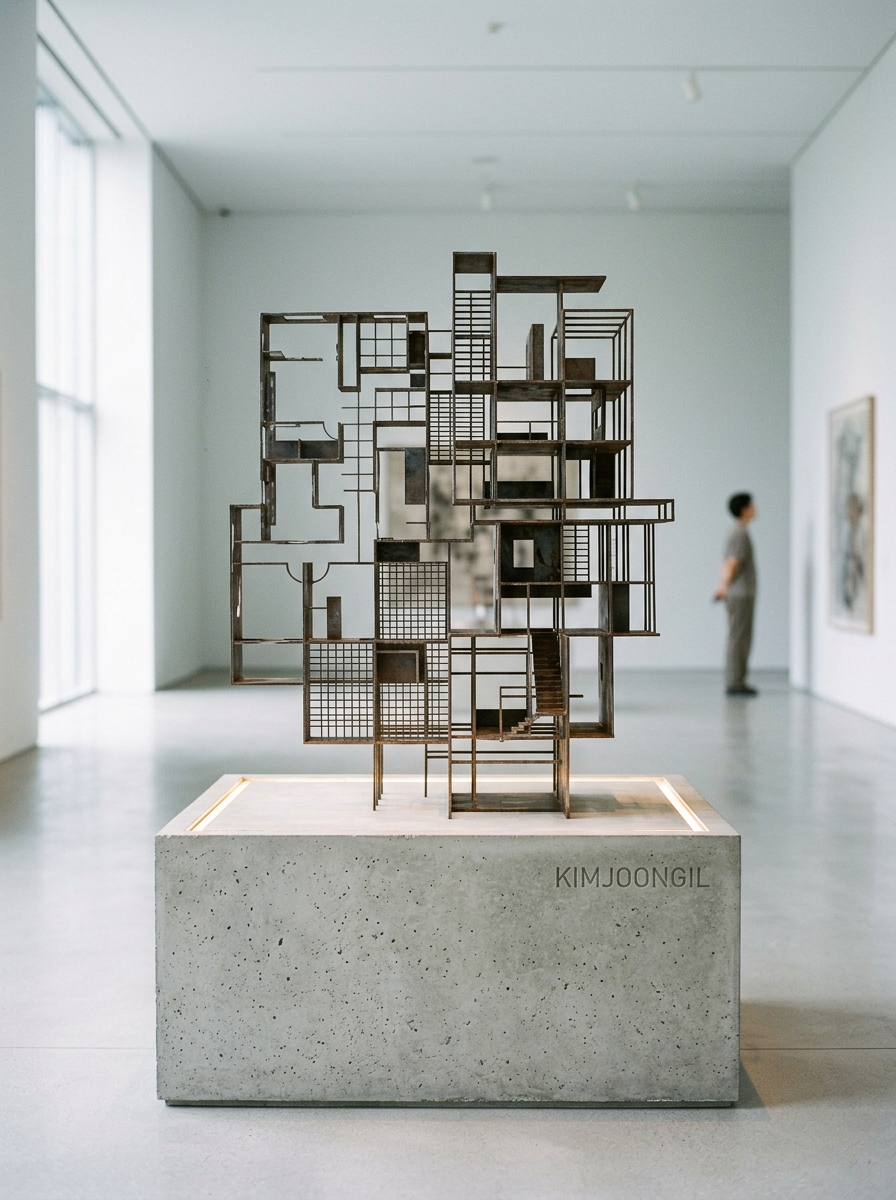
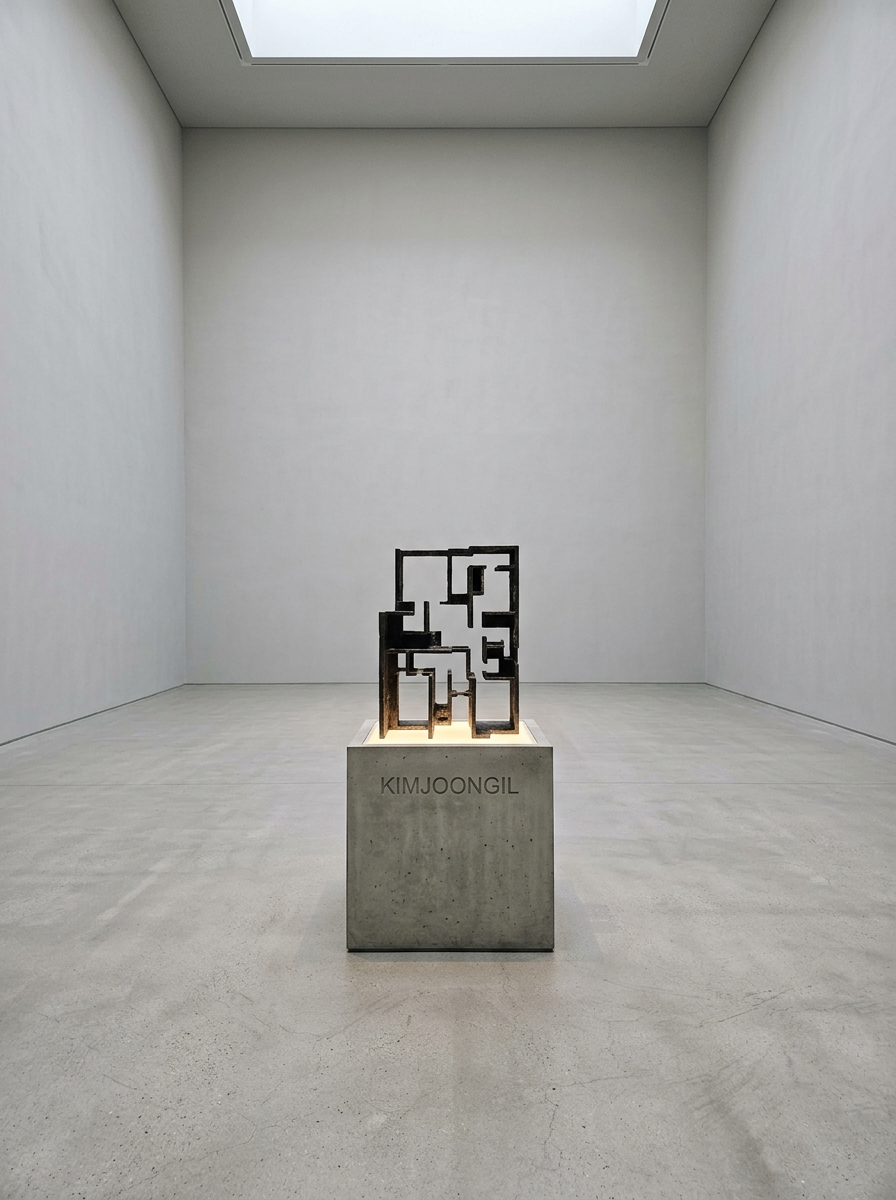
UI: Update preview blueprint image to wide, empty gallery shot

diff --git a/index.html b/index.html
@@ -444,7 +444,7 @@
     </div>
     <div class="toc-overlay" onclick="closeTOC()"></div>
 
-    <script src="book_data.js?v=20242243"></script>
+    <script src="book_data.js?v=20242244"></script>
     <script>
       let currentChapter = 0;
       let currentColumn = 0;
